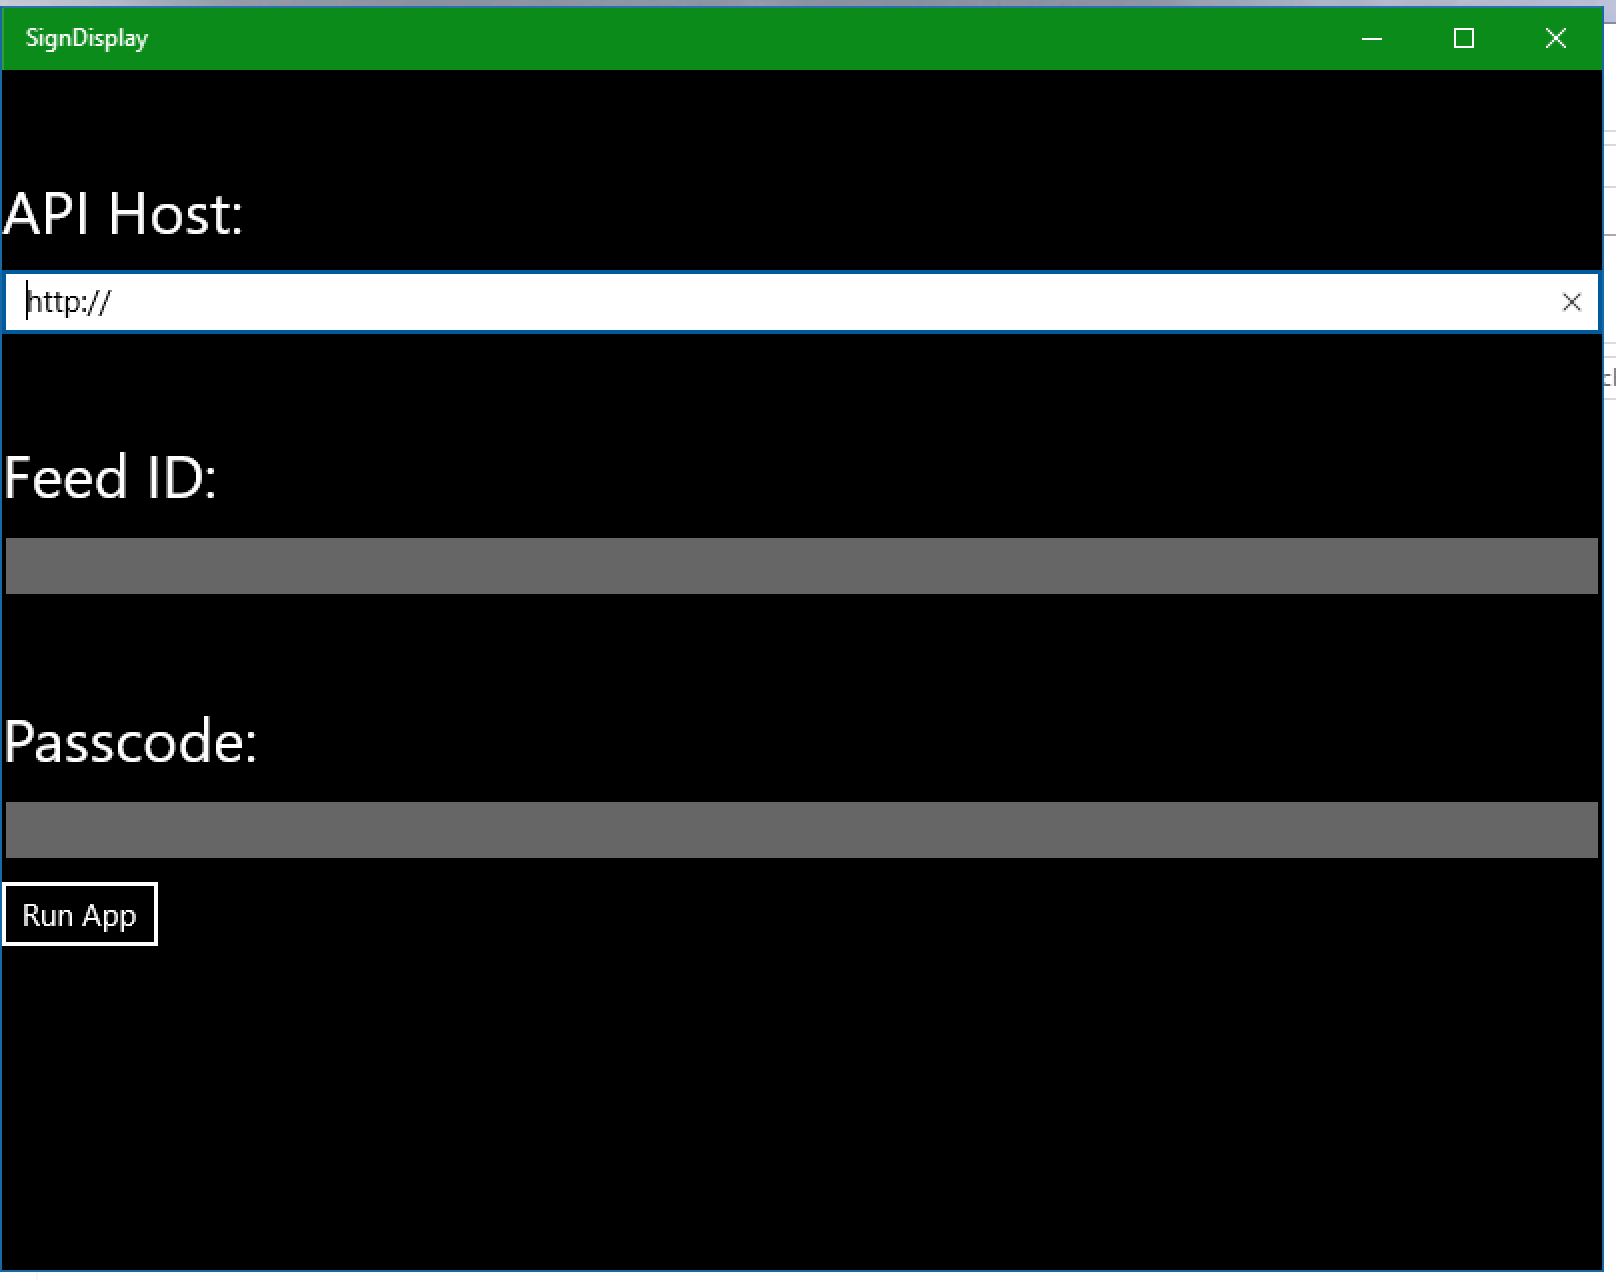
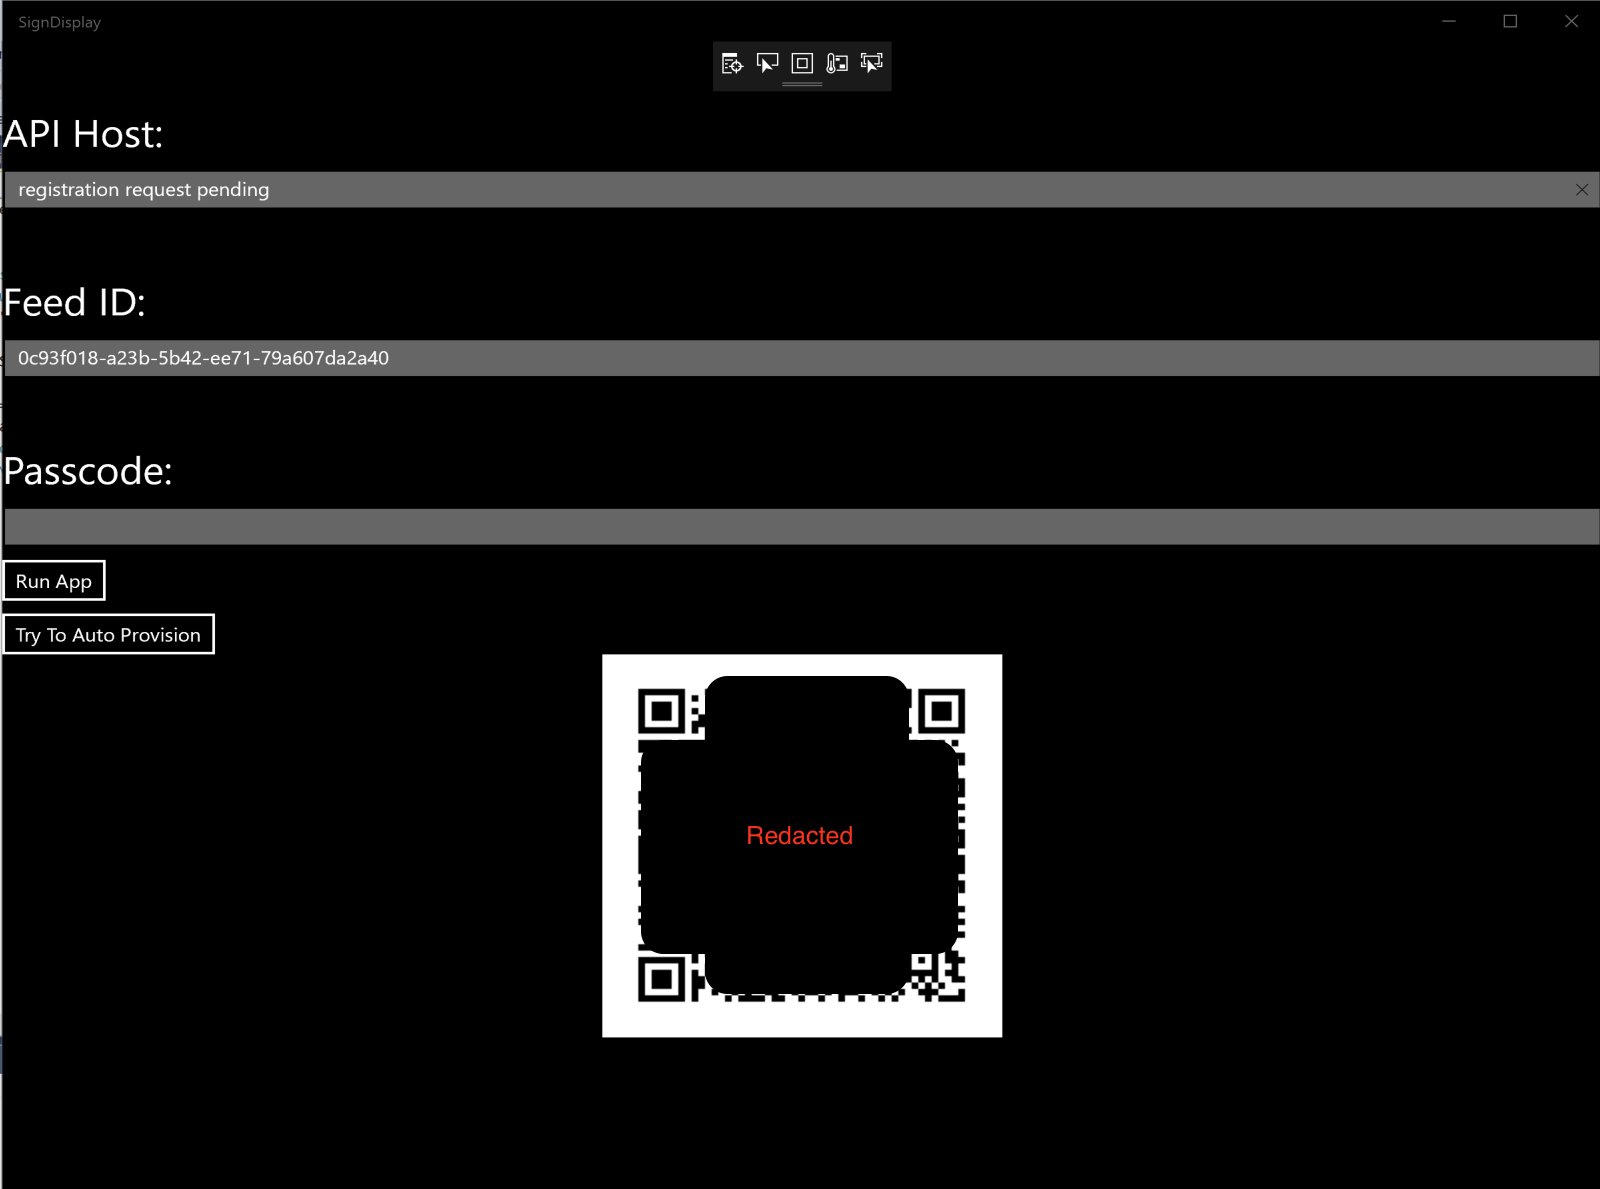
updating readme

Changed region(s): [[0.0, 0.0, 1.0, 1.0]]

diff --git a/README.md b/README.md
@@ -38,6 +38,65 @@ Supported options for the type of screen are:
 * It will wait on the regirstration page seen above in the screenshot and should send a text message to you
 * Log into Atlas and manually enter the `feed`, `baseurl`, etc as expected for this to work
 * Every 90 seconds or so the Pi will update to check if it is registered and start the slideshow
+* Add to the `screens` collection with the screens needed to rotate. This can be done manually (sample docs below) or via the other app listed above in the readme
 
 # Data flow 
 ![](SS/FlowChart.png)
+
+# Additional features
+* There is a `list` Stitch endpoint that when visited will show all registered devices
+* There is a `details` Stitch endpoint that you can get to either from the above `list` endpoint or via the QR code generated while device is pending registration. The idea here is you can print the QR code and affix it to the device to track inventory. You can get to this page via the UUID `token` generated or via the MAC address. 
+* The `registration` collection shoudl be manually updated (no UI yet) to store the `mac`, `secret`, `baseurl`, `feed`, `name`, `location`, `model` and will autopopulate `firstseen` and `lastseen` dates based on registration time and last registration request respectively. The `secret`, `baseurl`, and `feed` are required to function (and obviously `token` which will automatically be there) while all other attributes are strictly for tracking purposes within the `list` and `details` UI endpoints for management. Not for required functionality.
+
+# Implementation details
+* the token is generated using the `EasClientDeviceInformation` in `Windows.Security.ExchangeActiveSyncProvisioning` and should persist after reboots during my testing. Other methods did not persist on the Pi. Did not yet test to see if it persists after updates
+* Use a Pi and maintain physical security over this when deployed to make sure that it cannot be tampered with as the URL and secret are not encrypted on the SD Card
+* It is recommended to use a dumb TV to plug this into as smart TVs leave another attach vector to manipulation by passers-by
+* Change the default administrator password on the Windows installation, use an isolated network, disable remote access to it
+* Use strong random secret strings 
+
+# Known bugs
+* When visiting certain webpages with continually changing graphics and content, there appears to be a memory leak I cannot identify. Eventually the app will crash but it will restart right where it left off without issue
+
+# Sample docs
+## Registration on initial reg
+```
+{
+    "_id":"5c3b8c3598f568ae6946bda2",
+    "token":"0c93f018-a23b-5b42-ee71-79a607da2a40",
+    "lastseen":"2019-01-13T19:20:01.682Z",
+    "firstseen":"2019-01-13T19:06:29.693Z"
+}
+```
+## Registration after manual update
+```
+{
+    "_id":"5c3943c75ee2663fe3a1b230",
+    "token":"eb89e839-3850-dadf-7970-7b977627ec73",
+    "secret":"supersecretstring",
+    "feed":"nameoffeed",
+    "mac":"b8:92:cb:f4:aa:b1",
+    "baseurl":"https://stitchurlhere",
+    "lastseen":"2019-01-13T18:36:06.881Z",
+    "name":"Test Subject 1",
+    "location":"Chris's Desk",
+    "model":"Raspberry Pi 3b",
+    "firstseen":"2019-01-11T22:10:43.066Z"
+}
+```
+## Screens
+```
+{
+    "_id":"594bef61d3d13001432045b0",
+    "__v":0,
+    "created_date":"2017-06-22T16:25:05.471Z",
+    "duration":"10", // seconds to display content before rotate
+    "feed":"nameoffeed",
+    "modified_date":"2017-06-22T16:25:05.471Z",
+    "name":"Connect",
+    "order":"140", // order to be displayed
+    "sign_text":"",
+    "sign_type":"image", // see above for types
+    "uri":"https://something.com/pic.jpg
+}
+```
